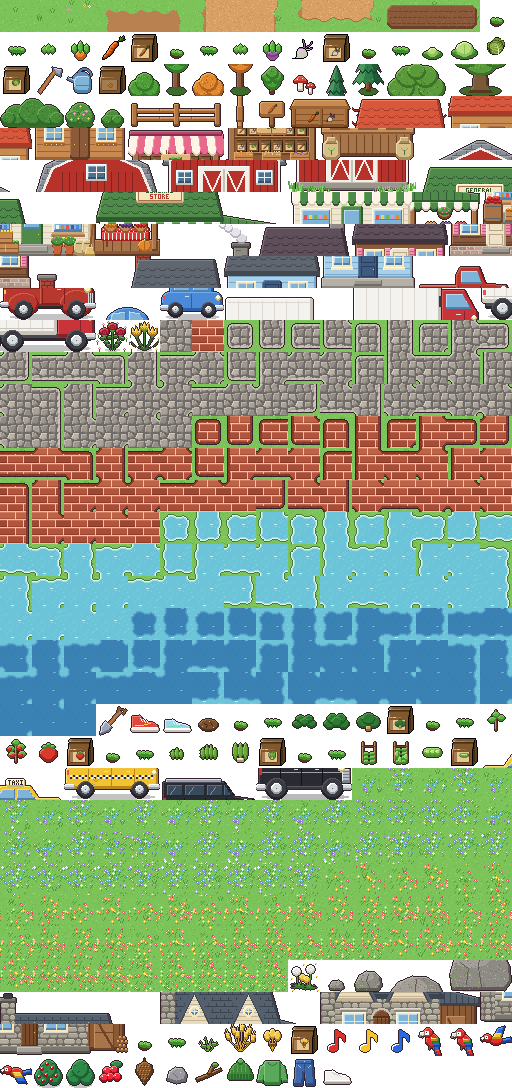
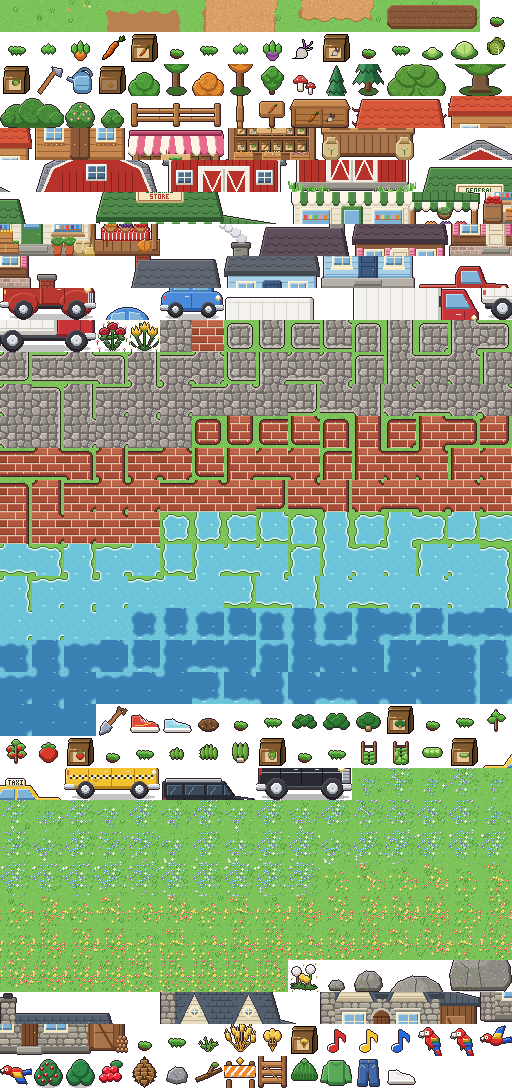
Locked path south from the road, and scalier pinecones
A dirt path now runs down the right side of the road's stone patch to a gate
at the bottom of the map. Using the gate says "Under Construction" until its
unlock (src/unlocks.js) is chosen. Pinecones are redrawn as tapering rows of
overlapping scales with rough edges.

Claude-Session: https://claude.ai/code/session_015p9zHqe761HPZ9r97hGy59

Changed region(s): [[0.4375, 0.9688, 0.8125, 1.0], [0.25, 0.9688, 0.3125, 1.0]]

diff --git a/src/art-index.js b/src/art-index.js
@@ -1,2 +1,2 @@
 // Generated by tools/make_art.py: tile names -> index in assets/art/world.png (16 columns of 32x32).
-export const A = {"grass0": 0, "grass1": 1, "grass2": 2, "path0": 3, "path1": 4, "path2": 5, "path3": 6, "path4": 7, "path5": 8, "path6": 9, "path7": 10, "path8": 11, "soil0": 12, "soil1": 13, "soil2": 14, "carrot0": 15, "carrot1": 16, "carrot2": 17, "carrot3": 18, "carrot_item": 19, "carrot_packet": 20, "turnip0": 21, "turnip1": 22, "turnip2": 23, "turnip3": 24, "turnip_item": 25, "turnip_packet": 26, "cabbage0": 27, "cabbage1": 28, "cabbage2": 29, "cabbage3": 30, "cabbage_item": 31, "cabbage_packet": 32, "hoe": 33, "can": 34, "bag": 35, "tree_green_0": 36, "tree_green_1": 37, "tree_orange_0": 38, "tree_orange_1": 39, "tree": 40, "mushrooms": 41, "pine_0": 42, "pine_1": 43, "oak_0": 44, "oak_1": 45, "oak_2": 46, "oak_3": 47, "shrub_large_0": 48, "shrub_large_1": 49, "shrub_flower": 50, "shrub_small": 51, "fence0": 52, "fence1": 53, "fence2": 54, "fence3": 55, "sign": 56, "bin_0": 57, "bin_1": 58, "house_0": 59, "house_1": 60, "house_2": 61, "house_3": 62, "house_4": 63, "house_5": 64, "house_6": 65, "house_7": 66, "house_8": 67, "shop_0": 68, "shop_1": 69, "shop_2": 70, "shop_3": 71, "shop_4": 72, "shop_5": 73, "shop_6": 74, "shop_7": 75, "shop_8": 76, "barn_0": 77, "barn_1": 78, "barn_2": 79, "barn_3": 80, "barn_4": 81, "barn_5": 82, "barn_6": 83, "barn_7": 84, "barn_8": 85, "barn_9": 86, "barn_10": 87, "barn_11": 88, "barn_12": 89, "barn_13": 90, "barn_14": 91, "barn_15": 92, "store_0": 93, "store_1": 94, "store_2": 95, "store_3": 96, "store_4": 97, "store_5": 98, "store_6": 99, "store_7": 100, "store_8": 101, "store_9": 102, "store_10": 103, "store_11": 104, "store_12": 105, "store_13": 106, "store_14": 107, "store_15": 108, "store_16": 109, "store_17": 110, "store_18": 111, "store_19": 112, "store_20": 113, "store_21": 114, "store_22": 115, "store_23": 116, "house_brown_0": 117, "house_brown_1": 118, "house_brown_2": 119, "house_brown_3": 120, "house_brown_4": 121, "house_brown_5": 122, "house_brown_6": 123, "house_brown_7": 124, "house_brown_8": 125, "house_brown_9": 126, "house_brown_10": 127, "house_brown_11": 128, "house_blue_0": 129, "house_blue_1": 130, "house_blue_2": 131, "house_blue_3": 132, "house_blue_4": 133, "house_blue_5": 134, "house_blue_6": 135, "house_blue_7": 136, "house_blue_8": 137, "house_blue_9": 138, "house_blue_10": 139, "house_blue_11": 140, "pickup_0": 141, "pickup_1": 142, "pickup_2": 143, "pickup_3": 144, "pickup_4": 145, "pickup_5": 146, "car_small_0": 147, "car_small_1": 148, "car_small_2": 149, "car_small_3": 150, "box_truck_0": 151, "box_truck_1": 152, "box_truck_2": 153, "box_truck_3": 154, "box_truck_4": 155, "box_truck_5": 156, "box_truck_6": 157, "box_truck_7": 158, "box_truck_8": 159, "box_truck_9": 160, "box_truck_10": 161, "box_truck_11": 162, "roses": 163, "tulips": 164, "cobble0": 165, "brick0": 166, "cobbleb0": 167, "cobbleb1": 168, "cobbleb2": 169, "cobbleb3": 170, "cobbleb4": 171, "cobbleb5": 172, "cobbleb6": 173, "cobbleb7": 174, "cobbleb8": 175, "cobbleb9": 176, "cobbleb10": 177, "cobbleb11": 178, "cobbleb12": 179, "cobbleb13": 180, "cobbleb14": 181, "cobbleb15": 182, "cobbleb16": 183, "cobbleb17": 184, "cobbleb18": 185, "cobbleb19": 186, "cobbleb20": 187, "cobbleb21": 188, "cobbleb22": 189, "cobbleb23": 190, "cobbleb24": 191, "cobbleb25": 192, "cobbleb26": 193, "cobbleb27": 194, "cobbleb28": 195, "cobbleb29": 196, "cobbleb30": 197, "cobbleb31": 198, "cobbleb32": 199, "cobbleb33": 200, "cobbleb34": 201, "cobbleb35": 202, "cobbleb36": 203, "cobbleb37": 204, "cobbleb38": 205, "cobbleb39": 206, "cobbleb40": 207, "cobbleb41": 208, "cobbleb42": 209, "cobbleb43": 210, "cobbleb44": 211, "cobbleb45": 212, "cobbleb46": 213, "brickb0": 214, "brickb1": 215, "brickb2": 216, "brickb3": 217, "brickb4": 218, "brickb5": 219, "brickb6": 220, "brickb7": 221, "brickb8": 222, "brickb9": 223, "brickb10": 224, "brickb11": 225, "brickb12": 226, "brickb13": 227, "brickb14": 228, "brickb15": 229, "brickb16": 230, "brickb17": 231, "brickb18": 232, "brickb19": 233, "brickb20": 234, "brickb21": 235, "brickb22": 236, "brickb23": 237, "brickb24": 238, "brickb25": 239, "brickb26": 240, "brickb27": 241, "brickb28": 242, "brickb29": 243, "brickb30": 244, "brickb31": 245, "brickb32": 246, "brickb33": 247, "brickb34": 248, "brickb35": 249, "brickb36": 250, "brickb37": 251, "brickb38": 252, "brickb39": 253, "brickb40": 254, "brickb41": 255, "brickb42": 256, "brickb43": 257, "brickb44": 258, "brickb45": 259, "brickb46": 260, "shallow0": 261, "shallow1": 262, "shallow2": 263, "shallow3": 264, "shallow4": 265, "shallow5": 266, "shallow6": 267, "shallow7": 268, "shallow8": 269, "shallow9": 270, "shallow10": 271, "shallow11": 272, "shallow12": 273, "shallow13": 274, "shallow14": 275, "shallow15": 276, "shallow16": 277, "shallow17": 278, "shallow18": 279, "shallow19": 280, "shallow20": 281, "shallow21": 282, "shallow22": 283, "shallow23": 284, "shallow24": 285, "shallow25": 286, "shallow26": 287, "shallow27": 288, "shallow28": 289, "shallow29": 290, "shallow30": 291, "shallow31": 292, "shallow32": 293, "shallow33": 294, "shallow34": 295, "shallow35": 296, "shallow36": 297, "shallow37": 298, "shallow38": 299, "shallow39": 300, "shallow40": 301, "shallow41": 302, "shallow42": 303, "shallow43": 304, "shallow44": 305, "shallow45": 306, "shallow46": 307, "deep0": 308, "deep1": 309, "deep2": 310, "deep3": 311, "deep4": 312, "deep5": 313, "deep6": 314, "deep7": 315, "deep8": 316, "deep9": 317, "deep10": 318, "deep11": 319, "deep12": 320, "deep13": 321, "deep14": 322, "deep15": 323, "deep16": 324, "deep17": 325, "deep18": 326, "deep19": 327, "deep20": 328, "deep21": 329, "deep22": 330, "deep23": 331, "deep24": 332, "deep25": 333, "deep26": 334, "deep27": 335, "deep28": 336, "deep29": 337, "deep30": 338, "deep31": 339, "deep32": 340, "deep33": 341, "deep34": 342, "deep35": 343, "deep36": 344, "deep37": 345, "deep38": 346, "deep39": 347, "deep40": 348, "deep41": 349, "deep42": 350, "deep43": 351, "deep44": 352, "deep45": 353, "deep46": 354, "shovel": 355, "shoes": 356, "sneakers": 357, "dig_spot": 358, "spinach0": 359, "spinach1": 360, "spinach2": 361, "spinach3": 362, "spinach_item": 363, "spinach_packet": 364, "tomato0": 365, "tomato1": 366, "tomato2": 367, "tomato3": 368, "tomato_item": 369, "tomato_packet": 370, "arugula0": 371, "arugula1": 372, "arugula2": 373, "arugula3": 374, "arugula_item": 375, "arugula_packet": 376, "peas0": 377, "peas1": 378, "peas2": 379, "peas3": 380, "peas_item": 381, "peas_packet": 382, "taxi_0": 383, "taxi_1": 384, "taxi_2": 385, "taxi_3": 386, "taxi_4": 387, "taxi_5": 388, "suv_0": 389, "suv_1": 390, "suv_2": 391, "suv_3": 392, "suv_4": 393, "suv_5": 394, "wildcool0": 395, "wildcool1": 396, "wildcool2": 397, "wildcool3": 398, "wildcool4": 399, "wildcool5": 400, "wildcool6": 401, "wildcool7": 402, "wildcool8": 403, "wildcool9": 404, "wildcool10": 405, "wildcool11": 406, "wildcool12": 407, "wildcool13": 408, "wildcool14": 409, "wildcool15": 410, "wildcool16": 411, "wildcool17": 412, "wildcool18": 413, "wildcool19": 414, "wildcool20": 415, "wildcool21": 416, "wildcool22": 417, "wildcool23": 418, "wildcool24": 419, "wildcool25": 420, "wildcool26": 421, "wildcool27": 422, "wildcool28": 423, "wildcool29": 424, "wildcool30": 425, "wildcool31": 426, "wildcool32": 427, "wildcool33": 428, "wildcool34": 429, "wildcool35": 430, "wildcool36": 431, "wildcool37": 432, "wildcool38": 433, "wildcool39": 434, "wildcool40": 435, "wildcool41": 436, "wildcool42": 437, "wildcool43": 438, "wildcool44": 439, "wildcool45": 440, "wildcool46": 441, "wildwarm0": 442, "wildwarm1": 443, "wildwarm2": 444, "wildwarm3": 445, "wildwarm4": 446, "wildwarm5": 447, "wildwarm6": 448, "wildwarm7": 449, "wildwarm8": 450, "wildwarm9": 451, "wildwarm10": 452, "wildwarm11": 453, "wildwarm12": 454, "wildwarm13": 455, "wildwarm14": 456, "wildwarm15": 457, "wildwarm16": 458, "wildwarm17": 459, "wildwarm18": 460, "wildwarm19": 461, "wildwarm20": 462, "wildwarm21": 463, "wildwarm22": 464, "wildwarm23": 465, "wildwarm24": 466, "wildwarm25": 467, "wildwarm26": 468, "wildwarm27": 469, "wildwarm28": 470, "wildwarm29": 471, "wildwarm30": 472, "wildwarm31": 473, "wildwarm32": 474, "wildwarm33": 475, "wildwarm34": 476, "wildwarm35": 477, "wildwarm36": 478, "wildwarm37": 479, "wildwarm38": 480, "wildwarm39": 481, "wildwarm40": 482, "wildwarm41": 483, "wildwarm42": 484, "wildwarm43": 485, "wildwarm44": 486, "wildwarm45": 487, "wildwarm46": 488, "dandelions": 489, "rock_small": 490, "rock_medium": 491, "rock_large_0": 492, "rock_large_1": 493, "rock_large_2": 494, "rock_large_3": 495, "stone_house_0": 496, "stone_house_1": 497, "stone_house_2": 498, "stone_house_3": 499, "stone_house_4": 500, "stone_house_5": 501, "stone_house_6": 502, "stone_house_7": 503, "stone_house_8": 504, "stone_house_9": 505, "stone_house_10": 506, "stone_house_11": 507, "stone_house_12": 508, "stone_house_13": 509, "stone_house_14": 510, "stone_house_15": 511, "stone_house_16": 512, "stone_house_17": 513, "stone_house_18": 514, "stone_house_19": 515, "wheat0": 516, "wheat1": 517, "wheat2": 518, "wheat3": 519, "wheat_item": 520, "wheat_packet": 521, "note_red": 522, "note_yellow": 523, "note_blue": 524, "bird0": 525, "bird1": 526, "bird_fly0": 527, "bird_fly1": 528, "berry_bush": 529, "berry_bush_bare": 530, "berries": 531, "pinecone": 532, "stone": 533, "stick": 534, "beanie": 535, "longsleeve": 536, "jeans": 537, "white_sneakers": 538};
+export const A = {"grass0": 0, "grass1": 1, "grass2": 2, "path0": 3, "path1": 4, "path2": 5, "path3": 6, "path4": 7, "path5": 8, "path6": 9, "path7": 10, "path8": 11, "soil0": 12, "soil1": 13, "soil2": 14, "carrot0": 15, "carrot1": 16, "carrot2": 17, "carrot3": 18, "carrot_item": 19, "carrot_packet": 20, "turnip0": 21, "turnip1": 22, "turnip2": 23, "turnip3": 24, "turnip_item": 25, "turnip_packet": 26, "cabbage0": 27, "cabbage1": 28, "cabbage2": 29, "cabbage3": 30, "cabbage_item": 31, "cabbage_packet": 32, "hoe": 33, "can": 34, "bag": 35, "tree_green_0": 36, "tree_green_1": 37, "tree_orange_0": 38, "tree_orange_1": 39, "tree": 40, "mushrooms": 41, "pine_0": 42, "pine_1": 43, "oak_0": 44, "oak_1": 45, "oak_2": 46, "oak_3": 47, "shrub_large_0": 48, "shrub_large_1": 49, "shrub_flower": 50, "shrub_small": 51, "fence0": 52, "fence1": 53, "fence2": 54, "fence3": 55, "sign": 56, "bin_0": 57, "bin_1": 58, "house_0": 59, "house_1": 60, "house_2": 61, "house_3": 62, "house_4": 63, "house_5": 64, "house_6": 65, "house_7": 66, "house_8": 67, "shop_0": 68, "shop_1": 69, "shop_2": 70, "shop_3": 71, "shop_4": 72, "shop_5": 73, "shop_6": 74, "shop_7": 75, "shop_8": 76, "barn_0": 77, "barn_1": 78, "barn_2": 79, "barn_3": 80, "barn_4": 81, "barn_5": 82, "barn_6": 83, "barn_7": 84, "barn_8": 85, "barn_9": 86, "barn_10": 87, "barn_11": 88, "barn_12": 89, "barn_13": 90, "barn_14": 91, "barn_15": 92, "store_0": 93, "store_1": 94, "store_2": 95, "store_3": 96, "store_4": 97, "store_5": 98, "store_6": 99, "store_7": 100, "store_8": 101, "store_9": 102, "store_10": 103, "store_11": 104, "store_12": 105, "store_13": 106, "store_14": 107, "store_15": 108, "store_16": 109, "store_17": 110, "store_18": 111, "store_19": 112, "store_20": 113, "store_21": 114, "store_22": 115, "store_23": 116, "house_brown_0": 117, "house_brown_1": 118, "house_brown_2": 119, "house_brown_3": 120, "house_brown_4": 121, "house_brown_5": 122, "house_brown_6": 123, "house_brown_7": 124, "house_brown_8": 125, "house_brown_9": 126, "house_brown_10": 127, "house_brown_11": 128, "house_blue_0": 129, "house_blue_1": 130, "house_blue_2": 131, "house_blue_3": 132, "house_blue_4": 133, "house_blue_5": 134, "house_blue_6": 135, "house_blue_7": 136, "house_blue_8": 137, "house_blue_9": 138, "house_blue_10": 139, "house_blue_11": 140, "pickup_0": 141, "pickup_1": 142, "pickup_2": 143, "pickup_3": 144, "pickup_4": 145, "pickup_5": 146, "car_small_0": 147, "car_small_1": 148, "car_small_2": 149, "car_small_3": 150, "box_truck_0": 151, "box_truck_1": 152, "box_truck_2": 153, "box_truck_3": 154, "box_truck_4": 155, "box_truck_5": 156, "box_truck_6": 157, "box_truck_7": 158, "box_truck_8": 159, "box_truck_9": 160, "box_truck_10": 161, "box_truck_11": 162, "roses": 163, "tulips": 164, "cobble0": 165, "brick0": 166, "cobbleb0": 167, "cobbleb1": 168, "cobbleb2": 169, "cobbleb3": 170, "cobbleb4": 171, "cobbleb5": 172, "cobbleb6": 173, "cobbleb7": 174, "cobbleb8": 175, "cobbleb9": 176, "cobbleb10": 177, "cobbleb11": 178, "cobbleb12": 179, "cobbleb13": 180, "cobbleb14": 181, "cobbleb15": 182, "cobbleb16": 183, "cobbleb17": 184, "cobbleb18": 185, "cobbleb19": 186, "cobbleb20": 187, "cobbleb21": 188, "cobbleb22": 189, "cobbleb23": 190, "cobbleb24": 191, "cobbleb25": 192, "cobbleb26": 193, "cobbleb27": 194, "cobbleb28": 195, "cobbleb29": 196, "cobbleb30": 197, "cobbleb31": 198, "cobbleb32": 199, "cobbleb33": 200, "cobbleb34": 201, "cobbleb35": 202, "cobbleb36": 203, "cobbleb37": 204, "cobbleb38": 205, "cobbleb39": 206, "cobbleb40": 207, "cobbleb41": 208, "cobbleb42": 209, "cobbleb43": 210, "cobbleb44": 211, "cobbleb45": 212, "cobbleb46": 213, "brickb0": 214, "brickb1": 215, "brickb2": 216, "brickb3": 217, "brickb4": 218, "brickb5": 219, "brickb6": 220, "brickb7": 221, "brickb8": 222, "brickb9": 223, "brickb10": 224, "brickb11": 225, "brickb12": 226, "brickb13": 227, "brickb14": 228, "brickb15": 229, "brickb16": 230, "brickb17": 231, "brickb18": 232, "brickb19": 233, "brickb20": 234, "brickb21": 235, "brickb22": 236, "brickb23": 237, "brickb24": 238, "brickb25": 239, "brickb26": 240, "brickb27": 241, "brickb28": 242, "brickb29": 243, "brickb30": 244, "brickb31": 245, "brickb32": 246, "brickb33": 247, "brickb34": 248, "brickb35": 249, "brickb36": 250, "brickb37": 251, "brickb38": 252, "brickb39": 253, "brickb40": 254, "brickb41": 255, "brickb42": 256, "brickb43": 257, "brickb44": 258, "brickb45": 259, "brickb46": 260, "shallow0": 261, "shallow1": 262, "shallow2": 263, "shallow3": 264, "shallow4": 265, "shallow5": 266, "shallow6": 267, "shallow7": 268, "shallow8": 269, "shallow9": 270, "shallow10": 271, "shallow11": 272, "shallow12": 273, "shallow13": 274, "shallow14": 275, "shallow15": 276, "shallow16": 277, "shallow17": 278, "shallow18": 279, "shallow19": 280, "shallow20": 281, "shallow21": 282, "shallow22": 283, "shallow23": 284, "shallow24": 285, "shallow25": 286, "shallow26": 287, "shallow27": 288, "shallow28": 289, "shallow29": 290, "shallow30": 291, "shallow31": 292, "shallow32": 293, "shallow33": 294, "shallow34": 295, "shallow35": 296, "shallow36": 297, "shallow37": 298, "shallow38": 299, "shallow39": 300, "shallow40": 301, "shallow41": 302, "shallow42": 303, "shallow43": 304, "shallow44": 305, "shallow45": 306, "shallow46": 307, "deep0": 308, "deep1": 309, "deep2": 310, "deep3": 311, "deep4": 312, "deep5": 313, "deep6": 314, "deep7": 315, "deep8": 316, "deep9": 317, "deep10": 318, "deep11": 319, "deep12": 320, "deep13": 321, "deep14": 322, "deep15": 323, "deep16": 324, "deep17": 325, "deep18": 326, "deep19": 327, "deep20": 328, "deep21": 329, "deep22": 330, "deep23": 331, "deep24": 332, "deep25": 333, "deep26": 334, "deep27": 335, "deep28": 336, "deep29": 337, "deep30": 338, "deep31": 339, "deep32": 340, "deep33": 341, "deep34": 342, "deep35": 343, "deep36": 344, "deep37": 345, "deep38": 346, "deep39": 347, "deep40": 348, "deep41": 349, "deep42": 350, "deep43": 351, "deep44": 352, "deep45": 353, "deep46": 354, "shovel": 355, "shoes": 356, "sneakers": 357, "dig_spot": 358, "spinach0": 359, "spinach1": 360, "spinach2": 361, "spinach3": 362, "spinach_item": 363, "spinach_packet": 364, "tomato0": 365, "tomato1": 366, "tomato2": 367, "tomato3": 368, "tomato_item": 369, "tomato_packet": 370, "arugula0": 371, "arugula1": 372, "arugula2": 373, "arugula3": 374, "arugula_item": 375, "arugula_packet": 376, "peas0": 377, "peas1": 378, "peas2": 379, "peas3": 380, "peas_item": 381, "peas_packet": 382, "taxi_0": 383, "taxi_1": 384, "taxi_2": 385, "taxi_3": 386, "taxi_4": 387, "taxi_5": 388, "suv_0": 389, "suv_1": 390, "suv_2": 391, "suv_3": 392, "suv_4": 393, "suv_5": 394, "wildcool0": 395, "wildcool1": 396, "wildcool2": 397, "wildcool3": 398, "wildcool4": 399, "wildcool5": 400, "wildcool6": 401, "wildcool7": 402, "wildcool8": 403, "wildcool9": 404, "wildcool10": 405, "wildcool11": 406, "wildcool12": 407, "wildcool13": 408, "wildcool14": 409, "wildcool15": 410, "wildcool16": 411, "wildcool17": 412, "wildcool18": 413, "wildcool19": 414, "wildcool20": 415, "wildcool21": 416, "wildcool22": 417, "wildcool23": 418, "wildcool24": 419, "wildcool25": 420, "wildcool26": 421, "wildcool27": 422, "wildcool28": 423, "wildcool29": 424, "wildcool30": 425, "wildcool31": 426, "wildcool32": 427, "wildcool33": 428, "wildcool34": 429, "wildcool35": 430, "wildcool36": 431, "wildcool37": 432, "wildcool38": 433, "wildcool39": 434, "wildcool40": 435, "wildcool41": 436, "wildcool42": 437, "wildcool43": 438, "wildcool44": 439, "wildcool45": 440, "wildcool46": 441, "wildwarm0": 442, "wildwarm1": 443, "wildwarm2": 444, "wildwarm3": 445, "wildwarm4": 446, "wildwarm5": 447, "wildwarm6": 448, "wildwarm7": 449, "wildwarm8": 450, "wildwarm9": 451, "wildwarm10": 452, "wildwarm11": 453, "wildwarm12": 454, "wildwarm13": 455, "wildwarm14": 456, "wildwarm15": 457, "wildwarm16": 458, "wildwarm17": 459, "wildwarm18": 460, "wildwarm19": 461, "wildwarm20": 462, "wildwarm21": 463, "wildwarm22": 464, "wildwarm23": 465, "wildwarm24": 466, "wildwarm25": 467, "wildwarm26": 468, "wildwarm27": 469, "wildwarm28": 470, "wildwarm29": 471, "wildwarm30": 472, "wildwarm31": 473, "wildwarm32": 474, "wildwarm33": 475, "wildwarm34": 476, "wildwarm35": 477, "wildwarm36": 478, "wildwarm37": 479, "wildwarm38": 480, "wildwarm39": 481, "wildwarm40": 482, "wildwarm41": 483, "wildwarm42": 484, "wildwarm43": 485, "wildwarm44": 486, "wildwarm45": 487, "wildwarm46": 488, "dandelions": 489, "rock_small": 490, "rock_medium": 491, "rock_large_0": 492, "rock_large_1": 493, "rock_large_2": 494, "rock_large_3": 495, "stone_house_0": 496, "stone_house_1": 497, "stone_house_2": 498, "stone_house_3": 499, "stone_house_4": 500, "stone_house_5": 501, "stone_house_6": 502, "stone_house_7": 503, "stone_house_8": 504, "stone_house_9": 505, "stone_house_10": 506, "stone_house_11": 507, "stone_house_12": 508, "stone_house_13": 509, "stone_house_14": 510, "stone_house_15": 511, "stone_house_16": 512, "stone_house_17": 513, "stone_house_18": 514, "stone_house_19": 515, "wheat0": 516, "wheat1": 517, "wheat2": 518, "wheat3": 519, "wheat_item": 520, "wheat_packet": 521, "note_red": 522, "note_yellow": 523, "note_blue": 524, "bird0": 525, "bird1": 526, "bird_fly0": 527, "bird_fly1": 528, "berry_bush": 529, "berry_bush_bare": 530, "berries": 531, "pinecone": 532, "stone": 533, "stick": 534, "gate_0": 535, "gate_1": 536, "beanie": 537, "longsleeve": 538, "jeans": 539, "white_sneakers": 540};

diff --git a/src/road-map.js b/src/road-map.js
@@ -19,19 +19,19 @@ export const ROAD_MAP = {
     "grass0","grass0","grass0","grass0","grass1","grass0","grass0","grass0","grass0","grass0","grass0","grass0","grass0","grass0","grass0","grass2","grass0","grass0","grass0","grass2","grass0","grass0","grass0","grass2","grass0","grass0","grass0","grass0","grass0","grass0","grass0","grass0","grass0","grass0","grass1","grass1","grass0","grass0","grass0","grass0",
     "cobbleb31","cobbleb31","cobbleb31","cobbleb31","cobbleb31","cobbleb31","cobbleb31","cobbleb31","cobbleb31","cobbleb31","cobbleb31","cobbleb31","cobbleb31","cobbleb31","cobbleb31","cobbleb31","cobbleb31","cobbleb31","cobbleb31","cobbleb31","cobbleb31","cobbleb31","cobbleb31","cobbleb31","cobbleb31","cobbleb31","cobbleb31","cobbleb31","cobbleb31","cobbleb31","cobbleb31","cobbleb31","cobbleb31","cobbleb31","cobbleb31","cobbleb31","cobbleb31","cobbleb31","cobbleb31","cobbleb31",
     "cobbleb46","cobbleb46","cobbleb46","cobbleb46","cobbleb46","cobbleb46","cobbleb46","cobbleb46","cobbleb46","cobbleb46","cobbleb46","cobbleb46","cobbleb46","cobbleb46","cobbleb46","cobbleb46","cobbleb46","cobbleb46","cobbleb46","cobbleb46","cobbleb46","cobbleb46","cobbleb46","cobbleb46","cobbleb46","cobbleb46","cobbleb46","cobbleb46","cobbleb46","cobbleb46","cobbleb46","cobbleb46","cobbleb46","cobbleb46","cobbleb46","cobbleb46","cobbleb46","cobbleb46","cobbleb46","cobbleb46",
-    "cobbleb38","cobbleb38","cobbleb38","cobbleb38","cobbleb38","cobbleb38","cobbleb38","cobbleb38","cobbleb38","cobbleb38","cobbleb38","cobbleb38","cobbleb38","cobbleb38","cobbleb38","cobbleb38","cobbleb38","cobbleb38","cobbleb38","cobbleb38","cobbleb38","cobbleb38","cobbleb38","cobbleb38","cobbleb38","cobbleb38","cobbleb38","cobbleb38","cobbleb38","cobbleb38","cobbleb38","cobbleb38","cobbleb38","cobbleb38","cobbleb38","cobbleb38","cobbleb38","cobbleb38","cobbleb38","cobbleb38",
-    "grass0","grass0","grass0","grass0","grass1","grass0","grass0","grass0","grass0","grass0","grass0","grass2","grass0","grass1","grass0","grass0","grass0","grass0","grass0","grass0","grass0","grass1","grass0","grass2","grass0","grass0","grass0","grass0","grass0","grass1","grass2","grass0","grass2","grass0","grass1","grass0","grass0","grass0","grass0","grass0",
-    "grass0","grass0","grass0","grass1","grass0","grass0","grass0","grass0","grass0","grass0","grass0","grass0","grass0","grass0","grass0","grass0","grass0","grass0","grass2","grass0","grass0","grass0","grass0","grass0","grass1","grass0","grass0","grass0","grass0","grass1","grass0","grass0","grass0","grass0","grass1","grass0","grass0","grass0","grass0","grass0",
-    "grass0","grass0","grass0","grass2","grass0","grass0","grass0","grass0","grass0","grass0","grass0","grass0","grass0","grass0","grass0","grass1","grass1","grass0","grass0","grass0","grass0","grass0","grass0","grass0","grass0","grass0","grass1","grass0","grass0","grass0","grass0","cobbleb20","cobbleb31","cobbleb31","cobbleb31","cobbleb31","cobbleb31","cobbleb26","grass2","grass0",
-    "grass0","grass0","grass0","grass0","grass0","grass0","grass0","grass0","grass0","grass0","grass0","grass0","grass0","grass0","grass0","grass0","grass0","grass0","grass0","grass0","grass1","grass0","grass0","grass0","grass0","grass0","grass0","grass0","grass0","grass0","grass1","cobbleb24","path4","path4","path4","path4","path4","cobbleb42","grass2","grass2",
-    "grass0","grass0","grass0","grass0","grass0","grass0","grass0","grass0","grass0","grass2","grass0","grass1","grass1","grass0","grass2","grass1","grass1","grass0","grass1","grass0","grass0","grass0","grass0","grass0","grass0","grass0","grass0","grass0","grass0","grass0","grass1","cobbleb24","path4","path4","path4","path4","path4","cobbleb42","grass0","grass0",
-    "grass0","grass2","grass1","grass0","grass0","grass0","grass1","grass0","grass1","grass1","grass0","grass0","grass0","grass0","grass0","grass0","grass1","grass1","grass0","grass0","grass0","grass0","grass1","grass0","grass0","grass0","grass0","grass0","grass0","grass0","grass2","cobbleb24","path4","path4","path4","path4","path4","cobbleb42","grass0","grass0",
-    "grass0","grass1","grass0","grass1","grass0","grass0","grass0","grass0","grass1","grass1","grass0","grass0","grass1","grass0","grass0","grass0","grass0","grass0","grass2","grass1","grass0","grass0","grass0","grass0","grass0","grass0","grass1","grass2","grass0","grass0","grass0","cobbleb24","path4","path4","path4","path4","path4","cobbleb42","grass1","grass0",
-    "grass0","grass0","grass0","grass0","grass0","grass1","grass0","grass0","grass0","grass0","grass0","grass0","grass0","grass0","grass0","grass0","grass2","grass0","grass0","grass2","grass0","grass0","grass0","grass0","grass1","grass0","grass0","grass0","grass0","grass1","grass0","cobbleb24","path4","path4","path4","path4","path4","cobbleb42","grass1","grass0",
-    "grass0","grass0","grass0","grass0","grass0","grass0","grass0","grass0","grass0","grass0","grass0","grass0","grass0","grass0","grass1","grass0","grass0","grass0","grass2","grass0","grass0","grass0","grass1","grass0","grass0","grass0","grass0","grass0","grass0","grass0","grass2","cobbleb24","path4","path4","path4","path4","path4","cobbleb42","grass2","grass0",
-    "grass0","grass1","grass1","grass0","grass0","grass0","grass0","grass0","grass0","grass0","grass0","grass0","grass0","grass0","grass0","grass0","grass0","grass0","grass0","grass0","grass1","grass0","grass0","grass1","grass0","grass0","grass0","grass0","grass0","grass0","grass0","cobbleb16","cobbleb38","cobbleb38","cobbleb38","cobbleb38","cobbleb38","cobbleb34","grass2","grass0",
-    "grass0","grass0","grass0","grass0","grass1","grass0","grass0","grass0","grass0","grass0","grass0","grass0","grass0","grass1","grass0","grass0","grass0","grass0","grass0","grass0","grass0","grass0","grass0","grass0","grass0","grass0","grass0","grass2","grass0","grass0","grass2","grass1","grass0","grass0","grass0","grass0","grass0","grass0","grass0","grass0",
-    "grass0","grass0","grass0","grass0","grass1","grass0","grass0","grass0","grass1","grass1","grass0","grass0","grass0","grass0","grass0","grass0","grass0","grass0","grass0","grass0","grass1","grass0","grass0","grass0","grass0","grass0","grass0","grass2","grass0","grass0","grass1","grass0","grass0","grass0","grass0","grass0","grass0","grass0","grass0","grass0",
+    "cobbleb38","cobbleb38","cobbleb38","cobbleb38","cobbleb38","cobbleb38","cobbleb38","cobbleb38","cobbleb38","cobbleb38","cobbleb38","cobbleb38","cobbleb38","cobbleb38","cobbleb38","cobbleb38","cobbleb38","cobbleb38","cobbleb38","cobbleb38","cobbleb38","cobbleb38","cobbleb38","cobbleb38","cobbleb38","cobbleb38","cobbleb38","cobbleb38","cobbleb38","cobbleb38","cobbleb38","cobbleb38","cobbleb38","cobbleb38","cobbleb38","cobbleb38","cobbleb38","cobbleb38","cobbleb39","cobbleb38",
+    "grass0","grass0","grass0","grass0","grass1","grass0","grass0","grass0","grass0","grass0","grass0","grass2","grass0","grass1","grass0","grass0","grass0","grass0","grass0","grass0","grass0","grass1","grass0","grass2","grass0","grass0","grass0","grass0","grass0","grass1","grass2","grass0","grass2","grass0","grass1","grass0","grass0","grass0","path4","grass0",
+    "grass0","grass0","grass0","grass1","grass0","grass0","grass0","grass0","grass0","grass0","grass0","grass0","grass0","grass0","grass0","grass0","grass0","grass0","grass2","grass0","grass0","grass0","grass0","grass0","grass1","grass0","grass0","grass0","grass0","grass1","grass0","grass0","grass0","grass0","grass1","grass0","grass0","grass0","path4","grass0",
+    "grass0","grass0","grass0","grass2","grass0","grass0","grass0","grass0","grass0","grass0","grass0","grass0","grass0","grass0","grass0","grass1","grass1","grass0","grass0","grass0","grass0","grass0","grass0","grass0","grass0","grass0","grass1","grass0","grass0","grass0","grass0","cobbleb20","cobbleb31","cobbleb31","cobbleb31","cobbleb31","cobbleb31","cobbleb31","path5","grass0",
+    "grass0","grass0","grass0","grass0","grass0","grass0","grass0","grass0","grass0","grass0","grass0","grass0","grass0","grass0","grass0","grass0","grass0","grass0","grass0","grass0","grass1","grass0","grass0","grass0","grass0","grass0","grass0","grass0","grass0","grass0","grass1","cobbleb24","path4","path4","path4","path4","path4","cobbleb46","path5","grass2",
+    "grass0","grass0","grass0","grass0","grass0","grass0","grass0","grass0","grass0","grass2","grass0","grass1","grass1","grass0","grass2","grass1","grass1","grass0","grass1","grass0","grass0","grass0","grass0","grass0","grass0","grass0","grass0","grass0","grass0","grass0","grass1","cobbleb24","path4","path4","path4","path4","path4","cobbleb46","path5","grass0",
+    "grass0","grass2","grass1","grass0","grass0","grass0","grass1","grass0","grass1","grass1","grass0","grass0","grass0","grass0","grass0","grass0","grass1","grass1","grass0","grass0","grass0","grass0","grass1","grass0","grass0","grass0","grass0","grass0","grass0","grass0","grass2","cobbleb24","path4","path4","path4","path4","path4","cobbleb46","path5","grass0",
+    "grass0","grass1","grass0","grass1","grass0","grass0","grass0","grass0","grass1","grass1","grass0","grass0","grass1","grass0","grass0","grass0","grass0","grass0","grass2","grass1","grass0","grass0","grass0","grass0","grass0","grass0","grass1","grass2","grass0","grass0","grass0","cobbleb24","path4","path4","path4","path4","path4","cobbleb46","path5","grass0",
+    "grass0","grass0","grass0","grass0","grass0","grass1","grass0","grass0","grass0","grass0","grass0","grass0","grass0","grass0","grass0","grass0","grass2","grass0","grass0","grass2","grass0","grass0","grass0","grass0","grass1","grass0","grass0","grass0","grass0","grass1","grass0","cobbleb24","path4","path4","path4","path4","path4","cobbleb46","path5","grass0",
+    "grass0","grass0","grass0","grass0","grass0","grass0","grass0","grass0","grass0","grass0","grass0","grass0","grass0","grass0","grass1","grass0","grass0","grass0","grass2","grass0","grass0","grass0","grass1","grass0","grass0","grass0","grass0","grass0","grass0","grass0","grass2","cobbleb24","path4","path4","path4","path4","path4","cobbleb46","path5","grass0",
+    "grass0","grass1","grass1","grass0","grass0","grass0","grass0","grass0","grass0","grass0","grass0","grass0","grass0","grass0","grass0","grass0","grass0","grass0","grass0","grass0","grass1","grass0","grass0","grass1","grass0","grass0","grass0","grass0","grass0","grass0","grass0","cobbleb16","cobbleb38","cobbleb38","cobbleb38","cobbleb38","cobbleb38","cobbleb38","path5","grass0",
+    "grass0","grass0","grass0","grass0","grass1","grass0","grass0","grass0","grass0","grass0","grass0","grass0","grass0","grass1","grass0","grass0","grass0","grass0","grass0","grass0","grass0","grass0","grass0","grass0","grass0","grass0","grass0","grass2","grass0","grass0","grass2","grass1","grass0","grass0","grass0","grass0","grass0","grass0","path4","grass0",
+    "grass0","grass0","grass0","grass0","grass1","grass0","grass0","grass0","grass1","grass1","grass0","grass0","grass0","grass0","grass0","grass0","grass0","grass0","grass0","grass0","grass1","grass0","grass0","grass0","grass0","grass0","grass0","grass2","grass0","grass0","grass1","grass0","grass0","grass0","grass0","grass0","grass0","grass0","path4","grass0",
   ],
   objects: [
     {"name":"pine","x":0,"y":28},
@@ -44,7 +44,6 @@ export const ROAD_MAP = {
     {"name":"tree_green","x":26,"y":28},
     {"name":"pine","x":28,"y":28},
     {"name":"tree_green","x":30,"y":0},
-    {"name":"pine","x":38,"y":28},
     {"name":"pine","x":39,"y":12},
     {"name":"tree_green","x":0,"y":18},
     {"name":"tree_orange","x":0,"y":21},
@@ -73,14 +72,6 @@ export const ROAD_MAP = {
     {"name":"tulips","x":30,"y":25},
     {"name":"tulips","x":30,"y":23},
     {"name":"tulips","x":30,"y":21},
-    {"name":"roses","x":38,"y":20},
-    {"name":"roses","x":38,"y":22},
-    {"name":"roses","x":38,"y":24},
-    {"name":"roses","x":38,"y":26},
-    {"name":"tulips","x":38,"y":27},
-    {"name":"tulips","x":38,"y":25},
-    {"name":"tulips","x":38,"y":23},
-    {"name":"tulips","x":38,"y":21},
     {"name":"pine","x":29,"y":28},
     {"name":"pine","x":30,"y":28},
     {"name":"pine","x":31,"y":28},
@@ -100,13 +91,11 @@ export const ROAD_MAP = {
     {"name":"shrub_flower","x":37,"y":19},
     {"name":"shrub_flower","x":36,"y":19},
     {"name":"tulips","x":30,"y":19},
-    {"name":"tulips","x":38,"y":19},
     {"name":"fence0","x":30,"y":18},
-    {"name":"fence2","x":38,"y":18},
     {"name":"fence2","x":32,"y":18},
     {"name":"fence0","x":36,"y":18},
     {"name":"fence1","x":31,"y":18},
-    {"name":"fence1","x":37,"y":18},
+    {"name":"fence2","x":37,"y":18},
     {"name":"shrub_flower","x":33,"y":19},
     {"name":"shrub_flower","x":33,"y":18},
     {"name":"shrub_flower","x":35,"y":19},
@@ -228,6 +217,7 @@ export const ROAD_MAP = {
     {"name":"pine","x":25,"y":20},
     {"name":"pine","x":22,"y":17},
     {"name":"pine","x":2,"y":17},
+    {"name":"gate","x":38,"y":27},
   ],
   block: Array(1200).fill(0),
   spawn: { x: 1, y: 16 }, name: 'Road to Town', exits: { left: 'farm', right: 'town' },

diff --git a/src/map-data.js b/src/map-data.js
@@ -39,7 +39,7 @@ const SIZES = {
   house: { w: 3, h: 3 }, shop: { w: 3, h: 3 }, barn: { w: 4, h: 4, solid: 3 }, bin: { w: 2, h: 1 },
   tree_green: { w: 1, h: 2, solid: 1 }, tree_orange: { w: 1, h: 2, solid: 1 },
   pine: { w: 1, h: 2, solid: 1 }, oak: { w: 2, h: 2, solid: 1 }, shrub_large: { w: 2, h: 1 },
-  house_brown: { w: 3, h: 4, solid: 3 }, house_blue: { w: 3, h: 4, solid: 3 },
+  house_brown: { w: 3, h: 4, solid: 3 }, house_blue: { w: 3, h: 4, solid: 3 }, gate: { w: 1, h: 2 },
   store: { w: 6, h: 4, solid: 3, cols: { 4: 1, 5: 1 }, door: 2 },   pickup: { w: 3, h: 2, solid: 1 }, car_small: { w: 2, h: 2, solid: 1 }, box_truck: { w: 4, h: 3, solid: 2 },
   taxi: { w: 3, h: 2, solid: 1 }, suv: { w: 3, h: 2, solid: 1 }, rock_large: { w: 2, h: 2, solid: 1 }, stone_house: { w: 5, h: 4, solid: 3 },
 };
@@ -94,10 +94,10 @@ export function solidOf(d) {
   return solid;
 }
 
-// Data -> the game's map: houses get a door, shops a counter, bins their tiles, soil becomes plots.
+// Data -> the game's map: houses get a door, shops a counter, bins their tiles, gates theirs, soil becomes plots.
 export function mapFromData(d) {
   const { W, H } = d, key = (x, y) => `${x},${y}`;
-  const out = { W, H, ground: d.ground.slice(), solid: solidOf(d), objects: [], plots: [], door: null, shop: null, store: null, bin: [],
+  const out = { W, H, ground: d.ground.slice(), solid: solidOf(d), objects: [], plots: [], door: null, shop: null, store: null, bin: [], gates: [],
     name: d.name, exits: { ...d.exits }, npcs: (d.npcs ?? []).map(v => ({ ...v })) };
   for (const o of d.objects) {
     const p = PREFABS[o.name]; if (!p) continue;
@@ -106,6 +106,7 @@ export function mapFromData(d) {
     if (o.name === 'house') out.door ??= front;
     if (o.name === 'shop') out.shop ??= front;
     if (o.name === 'store') out.store ??= front;
+    if (o.name === 'gate') for (let j = 0; j < p.h; j++) out.gates.push(key(o.x, o.y + j)); // either tile answers when you Use it
     if (o.name === 'bin' && !out.bin.length) for (let i = 0; i < p.w; i++) out.bin.push(key(o.x + i, o.y + p.h - 1));
   }
   d.ground.forEach((n, i) => { if (n.startsWith('soil')) out.plots.push(key(i % W, Math.floor(i / W))); });

diff --git a/src/scenes.js b/src/scenes.js
@@ -12,6 +12,7 @@ import { Villager, spawnVillagers, randomSpot, fits, feet, overlaps, planRoute, 
 import { SCHEDULES, activity, weekday } from './schedule.js';
 import { GOODS, STORE_HOURS, WEAR_SLOTS, storeOpen, goodsOf } from './store.js';
 import { Events, MINSTREL_LINES } from './events.js';
+import { GATES } from './unlocks.js';
 import { FORAGE, SPREAD, scatterForage, bushAt, pickBush, regrowBushes } from './forage.js';
 import { PLANTS, DIG_SPOTS, DIG_ENERGY, scatterDigs, digFind } from './dig.js';
 import { A } from './art-index.js';
@@ -389,6 +390,7 @@ export class World {
       this.maps[p.id].villagers.push(p.v);
     }
   }
+  get mapId() { return Object.keys(this.maps).find(id => this.maps[id] === this.map); }
   get onFarm() { return this.map === this.maps.farm; }
 
   // The tile in front of the player's feet.
@@ -417,6 +419,7 @@ export class World {
     }
     if (v) return v.role !== 'shop' ? this.meet(v) : this.closed(v.walker.sheet) ? this.say(this.closed(v.walker.sheet)) : this.openShop(v);
     if (key === this.map.door) { sfx('sleep'); return this.clock.sleep(); }
+    if (this.map.gates?.includes(key)) { const g = GATES[this.mapId]; if (g && !g.open(this)) return this.say(g.locked); }
     const bush = bushAt(this.map, key);
     if (bush) return this.pickBerries(bush);
     const counter = Object.keys(KEEPERS).find(k => key === this.map[KEEPERS[k].building]);
@@ -829,7 +832,7 @@ export class World {
     this.events.drawGround(this, cx, cy);
     // Highlight the tile the player is facing.
     const [fx, fy] = this.facing().split(',').map(Number);
-    if ((this.onFarm && this.field.has(`${fx},${fy}`)) || [this.map.door, this.map.shop, this.map.store, ...this.map.bin].includes(`${fx},${fy}`) || this.map.digs?.has(`${fx},${fy}`)) {
+    if ((this.onFarm && this.field.has(`${fx},${fy}`)) || [this.map.door, this.map.shop, this.map.store, ...this.map.bin, ...(this.map.gates ?? [])].includes(`${fx},${fy}`) || this.map.digs?.has(`${fx},${fy}`)) {
       c.strokeStyle = '#fff8e8aa'; c.lineWidth = 1;
       c.strokeRect(fx * TILE - cx + 0.5, fy * TILE - cy + 0.5, 15, 15);
     }

diff --git a/test/map-data.test.js b/test/map-data.test.js
@@ -77,3 +77,15 @@ test('the wilds: town-sized, joined to the town road, all reachable, different e
   }
   assert.equal(seen.size, 40);
 });
+
+test('the road has a locked gate at the foot of a path down its right side', async () => {
+  const { LOCATIONS } = await import('../src/locations.js');
+  const { GATES } = await import('../src/unlocks.js');
+  const m = LOCATIONS.road.build();
+  assert.deepEqual(m.gates, ['38,27', '38,28']);
+  assert.ok(m.solid[28 * m.W + 38] && m.solid[27 * m.W + 38]);
+  for (let y = 18; y < m.H; y++) assert.ok(m.ground[y * m.W + 38].startsWith('path'), `row ${y}`);
+  assert.deepEqual(exitRowsOf(m), [15, 16, 17]); // the new path doesn't make a new exit
+  assert.equal(GATES.road.locked, 'Under Construction'); assert.equal(GATES.road.open(), false);
+});
+const exitRowsOf = m => [...Array(m.H).keys()].filter(y => /^(path|cobble)/.test(m.ground[y * m.W + m.W - 1]));

diff --git a/src/unlocks.js b/src/unlocks.js
@@ -1,0 +1,5 @@
+// Locked areas. Each map's gate stays shut, and says `locked` when you Use it, until open(world) is true.
+// The road's gate leads south to an area still being built; its unlock is picked once that area is fleshed out.
+export const GATES = {
+  road: { locked: 'Under Construction', open: () => false },
+};

diff --git a/tools/make_art.py b/tools/make_art.py
@@ -1211,14 +1211,17 @@ def berries_item():  # a little handful of bright red berries with a leaf
         shape(im, lambda d, x=x, y=y: d.ellipse([x - 4, y - 4, x + 3, y + 3]), '#f0283a', '#ff7a7a', '#a0101e', 1)
         ImageDraw.Draw(im).point((x - 2, y - 2), C('#ffffff'))
     return outline(im)
-def pinecone():  # brown cone of overlapping scales, point down
-    im = new()
-    shape(im, lambda d: d.polygon([(16, 28), (8, 16), (9, 9), (16, 5), (23, 9), (24, 16)]), '#8a5a2e', '#b07a44', '#5a3a1c')
-    d = ImageDraw.Draw(im)
-    for y in range(9, 26, 4):
-        w = max(1, 7 - abs(y - 13) // 2)
-        for x in range(16 - w, 16 + w + 1, 3): d.line([(x - 1, y), (x + 1, y + 2)], C('#5a3a1c')); d.point((x, y + 1), C('#c8925a'))
-    d.line([(16, 2), (16, 5)], C('#5a3a1c'))
+def pinecone():  # a tapering cone of overlapping woody scales; tips poke out past the edge so the outline is rough
+    im = new(); S_, Sl, Sd = '#9a6634', '#c8925a', '#4e3018'
+    shape(im, lambda d: d.ellipse([10, 5, 22, 28]), Sd, None, None)  # dark core shows between the scales
+    rows = [(6, (16,)), (10, (13, 19)), (14, (10, 16, 22)), (18, (10, 16, 22)), (22, (12, 20)), (26, (16,))]  # (y, scale centres)
+    for y, xs in rows:
+        for cx in xs:
+            flare = -2 if cx < 15 else 2 if cx > 17 else 0  # outer scales lean outwards
+            pts = [(cx - 3, y - 2), (cx + 3, y - 2), (cx + 3 + flare, y + 2), (cx + flare, y + 4), (cx - 3 + flare, y + 2)]
+            shape(im, lambda d, pts=pts: d.polygon(pts), S_, Sl, Sd, 1)
+            ImageDraw.Draw(im).point((cx + flare, y + 3), C('#e0b07a'))  # pale scale tip
+    d = ImageDraw.Draw(im); d.line([(16, 1), (16, 3)], C('#5a3a1c'))  # stem
     return outline(im)
 def stick():  # a fallen twig: a bent brown stick with a little side branch and a leaf
     im = new()
@@ -1230,6 +1233,20 @@ def stone():  # a grey stone for gathering (smaller and rounder than the map's r
     im = new()
     shape(im, lambda d: d.polygon([(7, 24), (9, 15), (15, 11), (22, 12), (26, 18), (25, 25), (16, 27)]), '#9a9aa0', '#c4c4ca', '#6a6a72')
     d = ImageDraw.Draw(im); d.line([(13, 17), (17, 21)], C('#6a6a72')); d.point((20, 16), C('#e0e0e6'))
+    return outline(im)
+
+# The gate to a locked area: posts and a plank gate (bottom tile), with a striped "under construction" board on top.
+def gate():
+    im = new(S, 2 * S)
+    for x in (3, 26): shape(im, lambda d, x=x: d.rectangle([x, 6, x + 3, 62]), '#9a6436', '#b07440', '#6f4426', 1)  # posts
+    for y in (38, 46, 54): shape(im, lambda d, y=y: d.rectangle([6, y, 25, y + 4]), '#c88a50', '#e0a96a', '#9a6436', 1)  # planks
+    d = ImageDraw.Draw(im); d.line([(7, 39), (24, 57)], C('#9a6436')); d.line([(7, 40), (24, 58)], C('#c88a50'))  # brace
+    shape(im, lambda d: d.rectangle([1, 10, 30, 20]), '#f4f2ee', '#ffffff', '#c8c4bc', 1)  # striped board
+    d = ImageDraw.Draw(im)
+    for x in range(-8, 32, 8): d.polygon([(x, 20), (x + 4, 20), (x + 12, 10), (x + 8, 10)], C('#f08a2c'))
+    d.rectangle([0, 0, 31, 9], (0, 0, 0, 0)); d.rectangle([0, 21, 31, 23], (0, 0, 0, 0))
+    for x in (3, 26): shape(im, lambda d, x=x: d.rectangle([x, 6, x + 3, 9]), '#9a6436', '#b07440', '#6f4426', 1)
+    shape(im, lambda d: d.ellipse([13, 2, 18, 7]), '#f6c62c', '#fde27a', '#c08a18', 1)  # warning lamp
     return outline(im)
 
 # ---------- assemble ----------
@@ -1280,7 +1297,7 @@ for st in range(4): add(f'wheat{st}', crop('wheat', st))
 add('wheat_item', wheat_item()); add('wheat_packet', packet(wheat_item()))
 for name, col in (('note_red', '#e0322c'), ('note_yellow', '#f6c62c'), ('note_blue', '#2a6ae0')): add(name, music_note(col))
 add('bird0', macaw(0)); add('bird1', macaw(1)); add('bird_fly0', macaw(0, True)); add('bird_fly1', macaw(1, True))
-add('berry_bush', berry_bush()); add('berry_bush_bare', berry_bush(False)); add('berries', berries_item()); add('pinecone', pinecone()); add('stone', stone()); add('stick', stick())
+add('berry_bush', berry_bush()); add('berry_bush_bare', berry_bush(False)); add('berries', berries_item()); add('pinecone', pinecone()); add('stone', stone()); add('stick', stick()); add('gate', gate())
 add('beanie', beanie()); add('longsleeve', longsleeve()); add('jeans', jeans()); add('white_sneakers', white_sneakers())
 COLS = 16
 sheet = new(COLS * S, math.ceil(len(cells) / COLS) * S)
